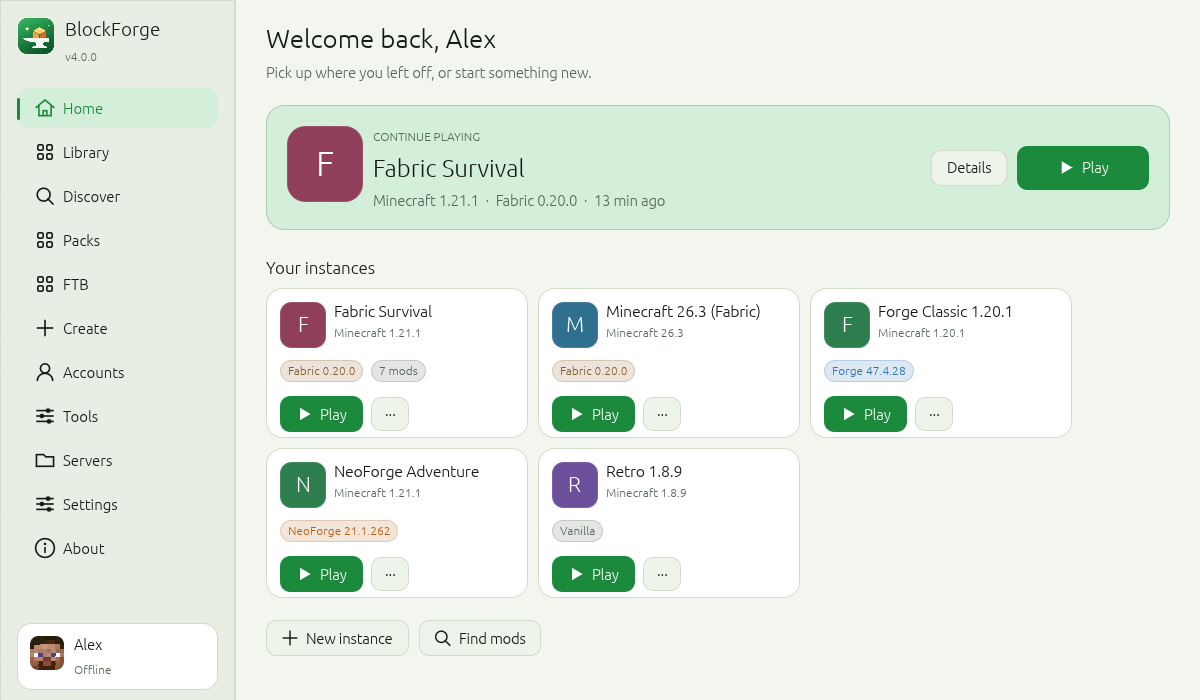
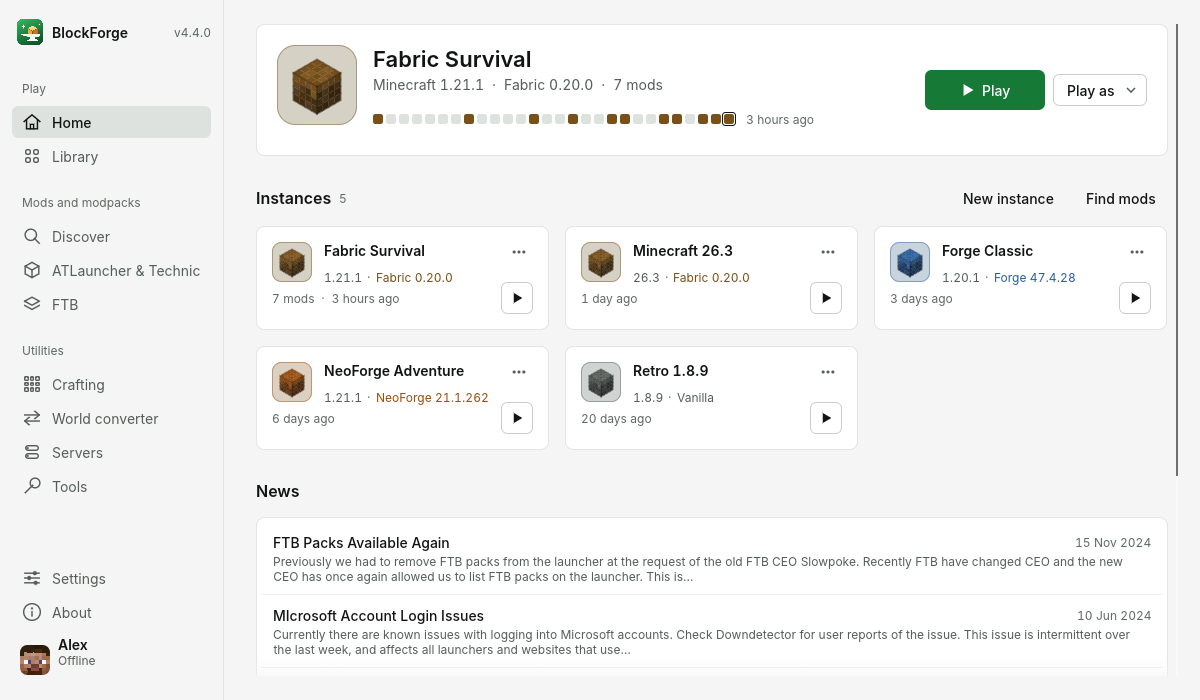
New screenshots and README gallery for the new look

diff --git a/README.md b/README.md
@@ -73,16 +73,16 @@
 
 <table>
   <tr>
+    <td width="50%"><img src="docs/screenshots/home.png" alt="Home" width="100%"><br><sub>Home: continue where you left off, with a strip of the days you played</sub></td>
     <td width="50%"><img src="docs/screenshots/library.png" alt="Library" width="100%"><br><sub>Library of your instances</sub></td>
+  </tr>
+  <tr>
     <td width="50%"><img src="docs/screenshots/mods.png" alt="Mods" width="100%"><br><sub>Mods with icons, updates and one-click switches</sub></td>
-  </tr>
-  <tr>
     <td width="50%"><img src="docs/screenshots/discover.png" alt="Discover" width="100%"><br><sub>Find mods on Modrinth or CurseForge</sub></td>
-    <td width="50%"><img src="docs/screenshots/packs.png" alt="Modpacks" width="100%"><br><sub>ATLauncher and Technic modpacks</sub></td>
   </tr>
   <tr>
-    <td width="50%"><img src="docs/screenshots/create.png" alt="New instance" width="100%"><br><sub>New instance with any version and mod loader</sub></td>
-    <td width="50%"><img src="docs/screenshots/logs.png" alt="Game log" width="100%"><br><sub>The game's log, live, with filter and copy</sub></td>
+    <td width="50%"><img src="docs/screenshots/convert.png" alt="World converter" width="100%"><br><sub>World converter: Bedrock to Java</sub></td>
+    <td width="50%"><img src="docs/screenshots/crafting.png" alt="Crafting calculator" width="100%"><br><sub>Crafting calculator: what to gather and craft</sub></td>
   </tr>
 </table>
 
@@ -91,20 +91,28 @@
 
 <table>
   <tr>
+    <td width="50%"><img src="docs/screenshots/instance.png" alt="Instance" width="100%"><br><sub>One instance: facts, play history and backups</sub></td>
+    <td width="50%"><img src="docs/screenshots/logs.png" alt="Game log" width="100%"><br><sub>The game's log, live, with filter and copy</sub></td>
+  </tr>
+  <tr>
+    <td width="50%"><img src="docs/screenshots/packs.png" alt="Modpacks" width="100%"><br><sub>ATLauncher and Technic modpacks</sub></td>
+    <td width="50%"><img src="docs/screenshots/create.png" alt="New instance" width="100%"><br><sub>New instance with any version and mod loader</sub></td>
+  </tr>
+  <tr>
     <td width="50%"><img src="docs/screenshots/who-is-playing.png" alt="Who's playing" width="100%"><br><sub>Who's playing: an offline name or Microsoft</sub></td>
     <td width="50%"><img src="docs/screenshots/instance-settings.png" alt="Instance settings" width="100%"><br><sub>Settings of one instance: memory, Java, commands</sub></td>
   </tr>
   <tr>
+    <td width="50%"><img src="docs/screenshots/accounts.png" alt="Accounts" width="100%"><br><sub>Accounts</sub></td>
     <td width="50%"><img src="docs/screenshots/settings.png" alt="Settings" width="100%"><br><sub>Settings</sub></td>
+  </tr>
+  <tr>
     <td width="50%"><img src="docs/screenshots/tools.png" alt="Tools" width="100%"><br><sub>Tools: network checker, support bundle, clean-up</sub></td>
+    <td width="50%"><img src="docs/screenshots/about.png" alt="About" width="100%"><br><sub>About: version, update check and credits</sub></td>
   </tr>
   <tr>
     <td width="50%"><img src="docs/screenshots/home-light.png" alt="Home, light look" width="100%"><br><sub>Home in the light look</sub></td>
     <td width="50%"><img src="docs/screenshots/mods-light.png" alt="Mods, light look" width="100%"><br><sub>Mods in the light look</sub></td>
-  </tr>
-  <tr>
-    <td width="50%"><img src="docs/screenshots/about.png" alt="About" width="100%"><br><sub>About: version, update check and credits</sub></td>
-    <td width="50%"></td>
   </tr>
 </table>
 

diff --git a/TESTING.md b/TESTING.md
@@ -68,7 +68,7 @@ The test world for the Bedrock to Java direction is `~/Downloads/Mace, Spear, Sw
 |---|---|
 | `BLOCKFORGE_DIR` | the data folder to use |
 | `BLOCKFORGE_BENCH=1` | `blockforge gui` prints how long the first frame took and quits |
-| `BLOCKFORGE_SHOT=<folder>` | `blockforge gui` visits every page, saves a PNG of each into the folder and quits (used for the screenshots in `docs/`) |
+| `BLOCKFORGE_SHOT=<folder>` | `blockforge gui` visits every page, saves a PNG of each into the folder and quits (used for the screenshots in `docs/`; `tools/screenshots/` makes a sample data folder and runs it on a private virtual display, see its README) |
 | `BLOCKFORGE_SHOT_PAGES=<a,b,c>` | with `BLOCKFORGE_SHOT`: only these pages (`convert`, `convert-progress`, `convert-done`, `convert-error` show the converter with made-up data; add `-light` for the light theme) |
 | `BLOCKFORGE_AUTOPLAY=<instance folder>` | with `BLOCKFORGE_SHOT`: presses Play through the window's own code, saves a picture of the log and stops the game |
 | `BLOCKFORGE_CF_KEY` | CurseForge API key to use instead of the built-in one |
